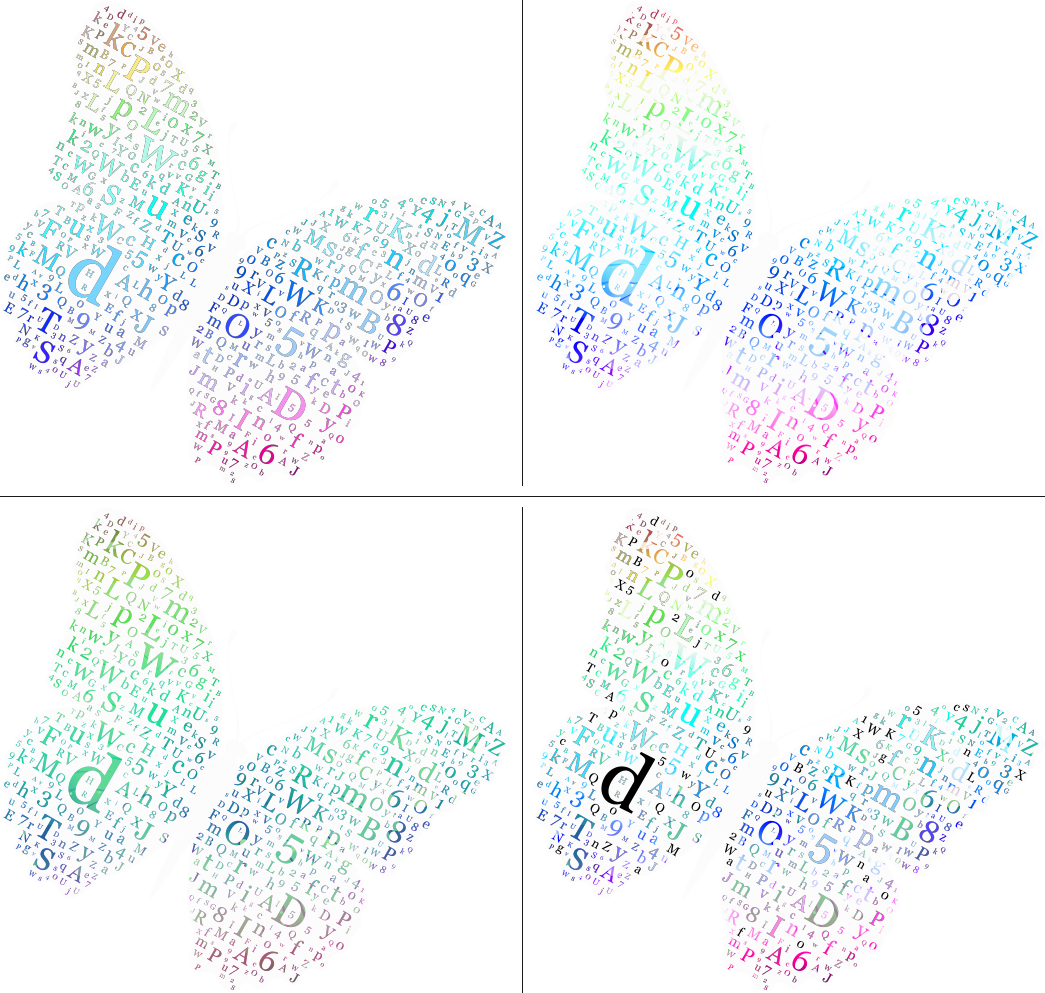
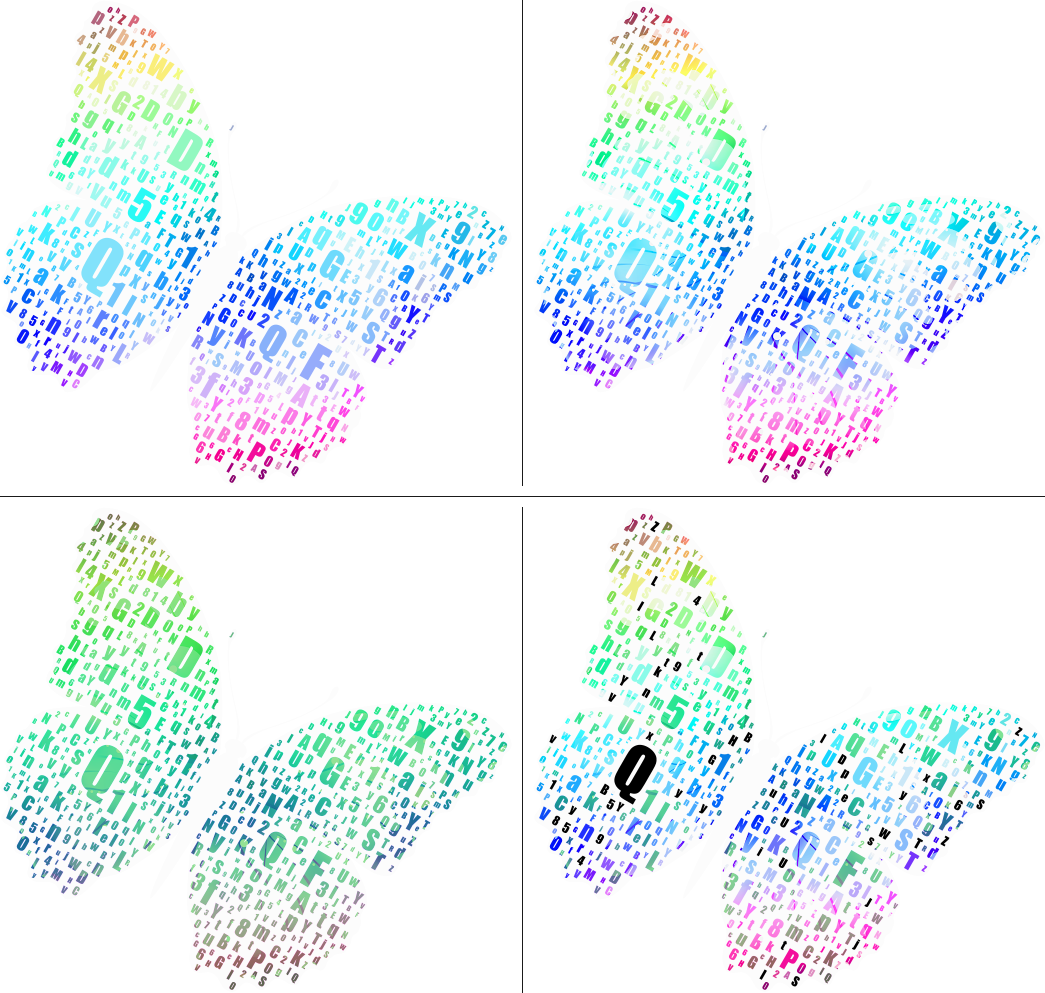
update to WordCloud v0.10.1

diff --git a/README.md b/README.md
@@ -1,5 +1,5 @@
 # WordCloud-Gallery
-This is a gallery of [WordCloud](https://github.com/guo-yong-zhi/WordCloud), which is automatically generated from `WordCloud.examples` (WordCloud v0.10.0).  Run `evalfile("generate.jl", ["doeval=true", "exception=true"])` in julia REPL to create this file.  
+This is a gallery of [WordCloud](https://github.com/guo-yong-zhi/WordCloud), which is automatically generated from `WordCloud.examples` (WordCloud v0.10.1).  Run `evalfile("generate.jl", ["doeval=true", "exception=true"])` in julia REPL to create this file.  
 - [alice](#alice)
 - [animation1](#animation1)
 - [animation2](#animation2)
@@ -172,6 +172,7 @@ println(length(samewords), " same words")
 for w in samewords
     setcolors!(wcb, w, getcolors(wca, w))
     setangles!(wcb, w, getangles(wca, w))
+    setfonts!(wcb, w, getfonts(wca, w))
 end
 initwords!(wcb)
 
@@ -251,6 +252,7 @@ setparameter!(wcb, setdiff(getwords(wcb), samewords), :uniquewords)
 for w in samewords
     setcolors!(wcb, w, getcolors(wca, w))
     setangles!(wcb, w, getangles(wca, w))
+    setfonts!(wcb, w, getfonts(wca, w))
 end
 ```  
 ### Put the same words at same position
@@ -359,14 +361,14 @@ try
     println(resp.request)
     content = resp.body |> String
     wc = wordcloud(content |> html2text |> processtext) |> generate!
-    println("results are saved to fromweb.png")
-    paint(wc, "fromweb.png")
+    println("results are saved to fromweb.svg")
+    paint(wc, "fromweb.svg")
     wc
 catch e
     println(e)
 end
 ```  
-![](fromweb.png)  
+![](fromweb.svg)  
 # gathering
 Big words will be placed closer to the center
 ```julia
@@ -462,6 +464,7 @@ wc = wordcloud(
     colors=((0.796, 0.235, 0.20), (0.584, 0.345, 0.698), (0.22, 0.596, 0.149)),
     angles=(0, -45, 45),
     # fonts = "Verdana Bold",
+    maxfontsize = 300,
 )
 setangles!(wc, "julia", 0)
 # setangles!(wc, "function", 45)
